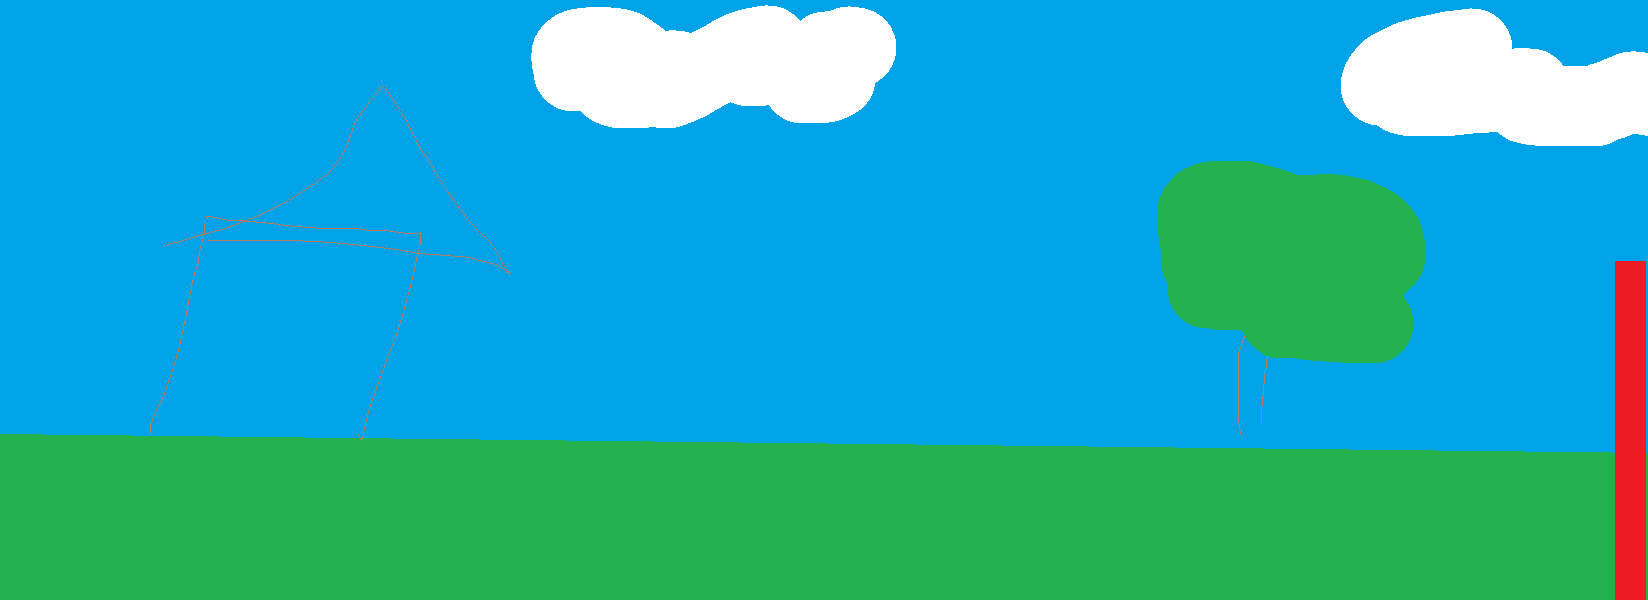
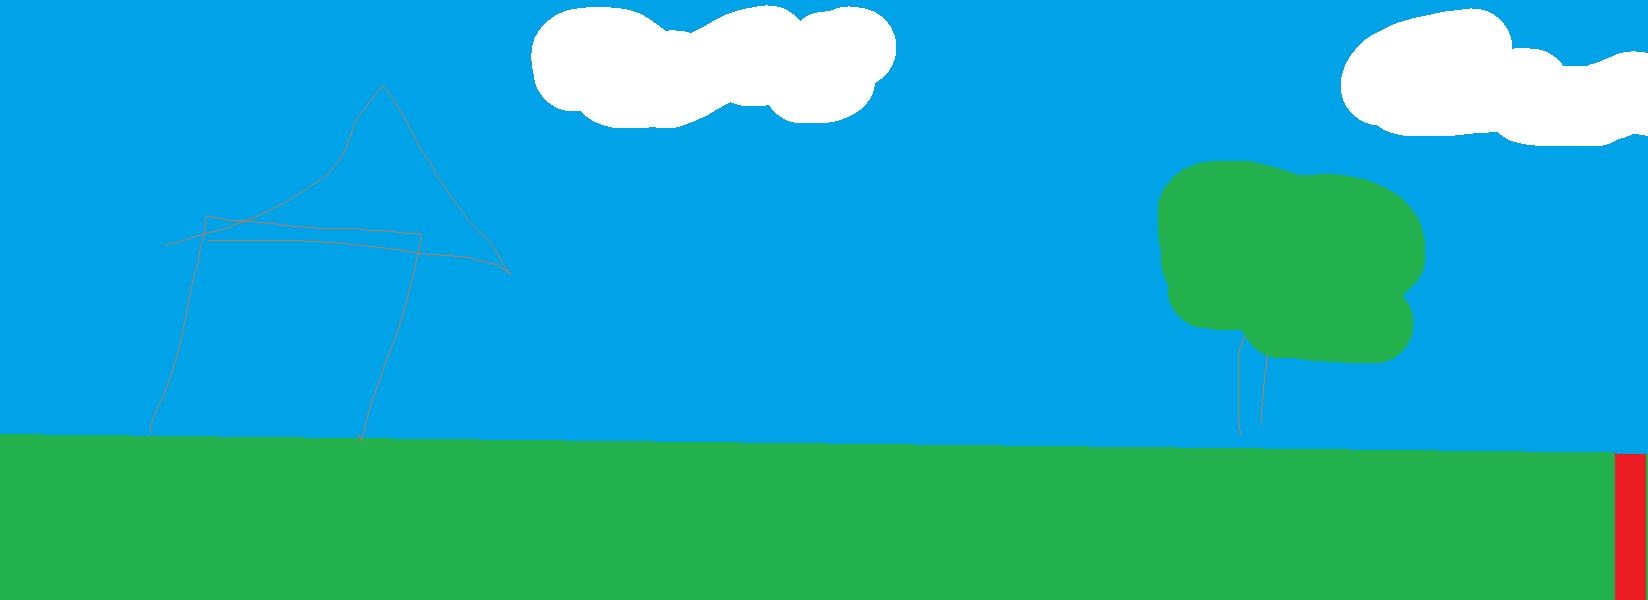
E na jezero

Changed region(s): [[0.9593, 0.42, 1.0, 0.78]]

diff --git a/hra.py b/hra.py
@@ -2,11 +2,10 @@ import pygame
 import sys
 pygame.init()
 
+# PRIPRAVA HRY
+
 okno_sirka = 800
 okno_vyska = 600
-
-skacu = False
-
 
 rozliseni_okna = (okno_sirka, okno_vyska)
 
@@ -18,31 +17,42 @@ hrac_rychlost = 4
 
 kamera_x = 0
 
-leva_zona = 500
-prava_zona = 500
+info_jezero = 1570
+
+
+leva_zona = 300
+prava_zona = 400
 
 okno = pygame.display.set_mode(rozliseni_okna)
 clock = pygame.time.Clock()
 
-pozadi = pygame.image.load("level_1.png")
+venek = pygame.image.load("level_1.png")
+jezero = pygame.image.load("level_2.png")
+
+pozadi = venek
 pozadi_sirka = pozadi.get_width()
 pozadi_vyska = pozadi.get_height()
 
 postava = pygame.image.load("pepa.png")
 TEXTURApostava = pygame.transform.scale(postava, (hrac_velikostX, hrac_velikostY))
 
+E_font = pygame.font.SysFont("Aharoni", 40)
+E_text = E_font.render("E", True, (0, 0, 0))
+
+# CYKLICKE VYKRESLOVANI FRAMU HRY
+
 while True:
+
+    # OVLADANI HRY HRACEM
+    
     for udalost in pygame.event.get():
         if udalost.type == pygame.QUIT:
             pygame.quit()
             sys.exit()
             
-    
-    
-    
-    
     stisknuto = pygame.key.get_pressed()
     
+    # UPRAVA HRY MEZI FRAMY
 
     if stisknuto[pygame.K_d]:
         hrac_pozice_x += hrac_rychlost
@@ -50,12 +60,6 @@ while True:
     if stisknuto[pygame.K_a]:
         hrac_pozice_x -= hrac_rychlost
         
-    #if stisknuto[pygame.K_SPACE]:
-        #skacu = True
-        #if skacu:
-            
-            
-    
     if hrac_pozice_x < 0:
         hrac_pozice_x = 0
     if hrac_pozice_x > pozadi_sirka - hrac_velikostX:
@@ -73,9 +77,36 @@ while True:
     if kamera_x > pozadi_sirka - okno_sirka:
         kamera_x = pozadi_sirka - okno_sirka
 
+
+    if pozadi == venek:
+
+        info_jezero_obrazovka_x = info_jezero - kamera_x
+        
+        stojim_u_jezera = hrac_pozice_x > 1350 and hrac_pozice_x < 1450
+            
+        if stojim_u_jezera and stisknuto[pygame.K_e]:
+            pozadi = jezero
+            
+            pozadi_sirka = pozadi.get_width()
+            pozadi_vyska = pozadi.get_height()
+            hrac_pozice_x = 50
+            hrac_pozice_y = 320
+            hrac_velikostX= 100
+            hrac_velikostY = 150
+            hrac_rychlost = 4
+    
+    # VYKRESLENI PRVKU HRY
+    
     okno.blit(pozadi, (-kamera_x, 0))
     okno.blit(TEXTURApostava, (hrac_obrazovka_x, hrac_pozice_y))
 
+    
+    if pozadi == venek and stojim_u_jezera:
+        pygame.draw.rect(okno, (255, 255, 255), (info_jezero_obrazovka_x, 340, 50, 50))
+        okno.blit(E_text, (info_jezero_obrazovka_x + (50/2 - E_text.get_size()[0] / 2), 352))
+
+    print(kamera_x, hrac_pozice_x)
+    
     clock.tick(60)
     pygame.display.update()
     
